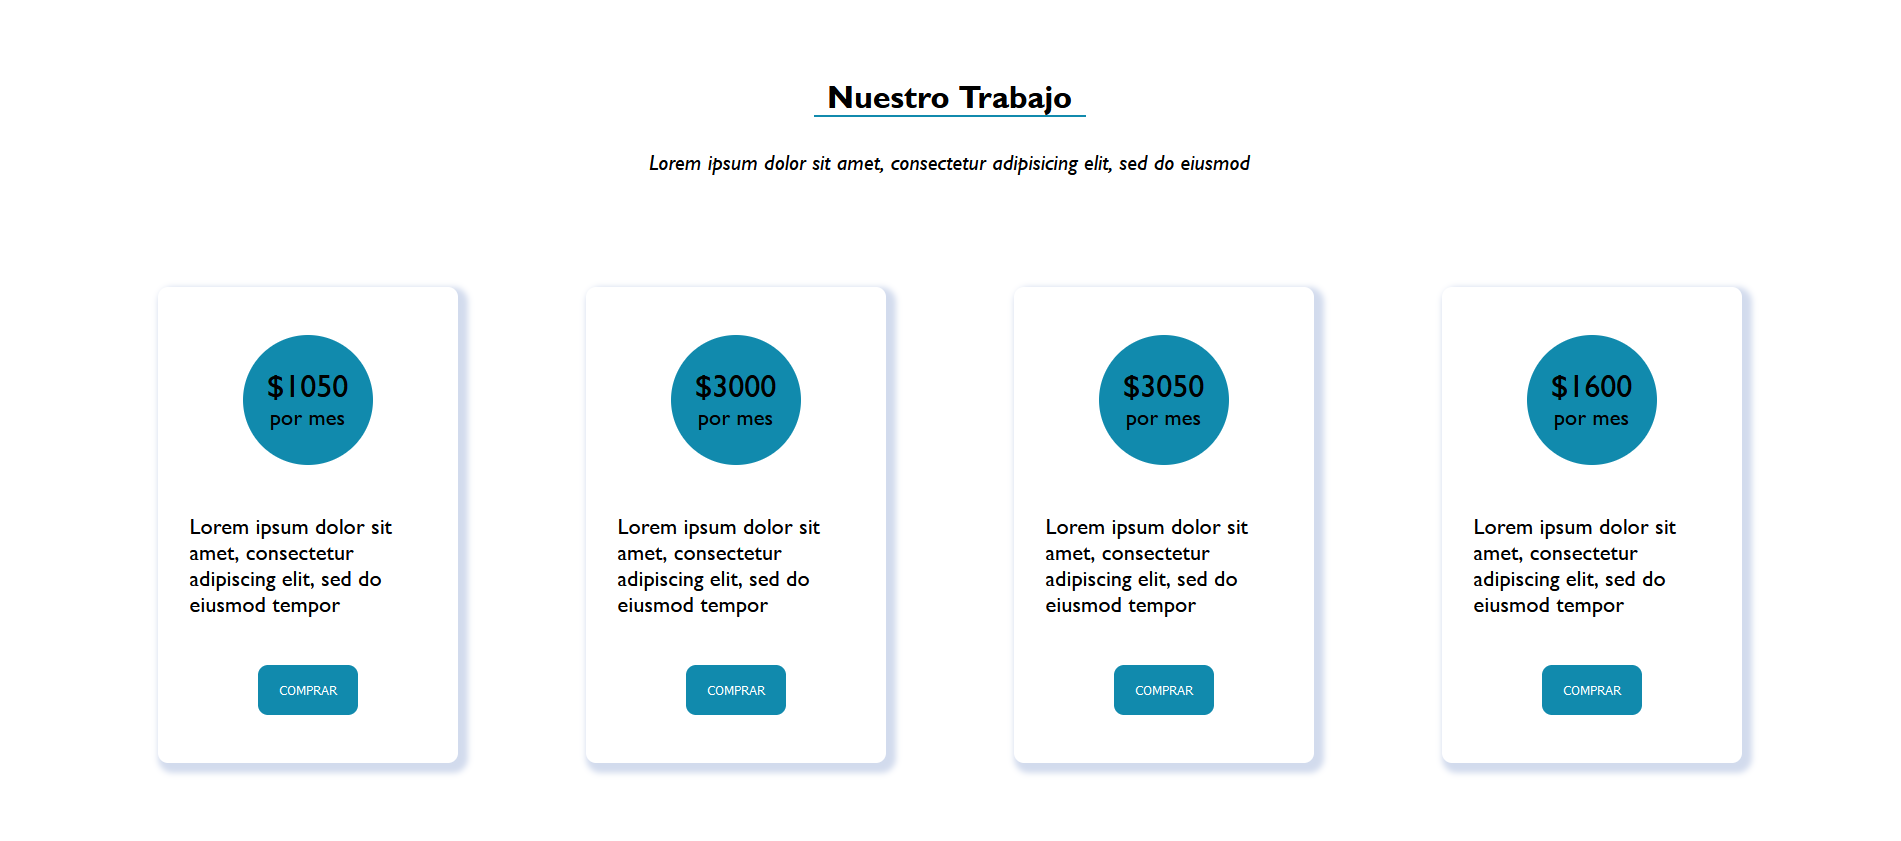
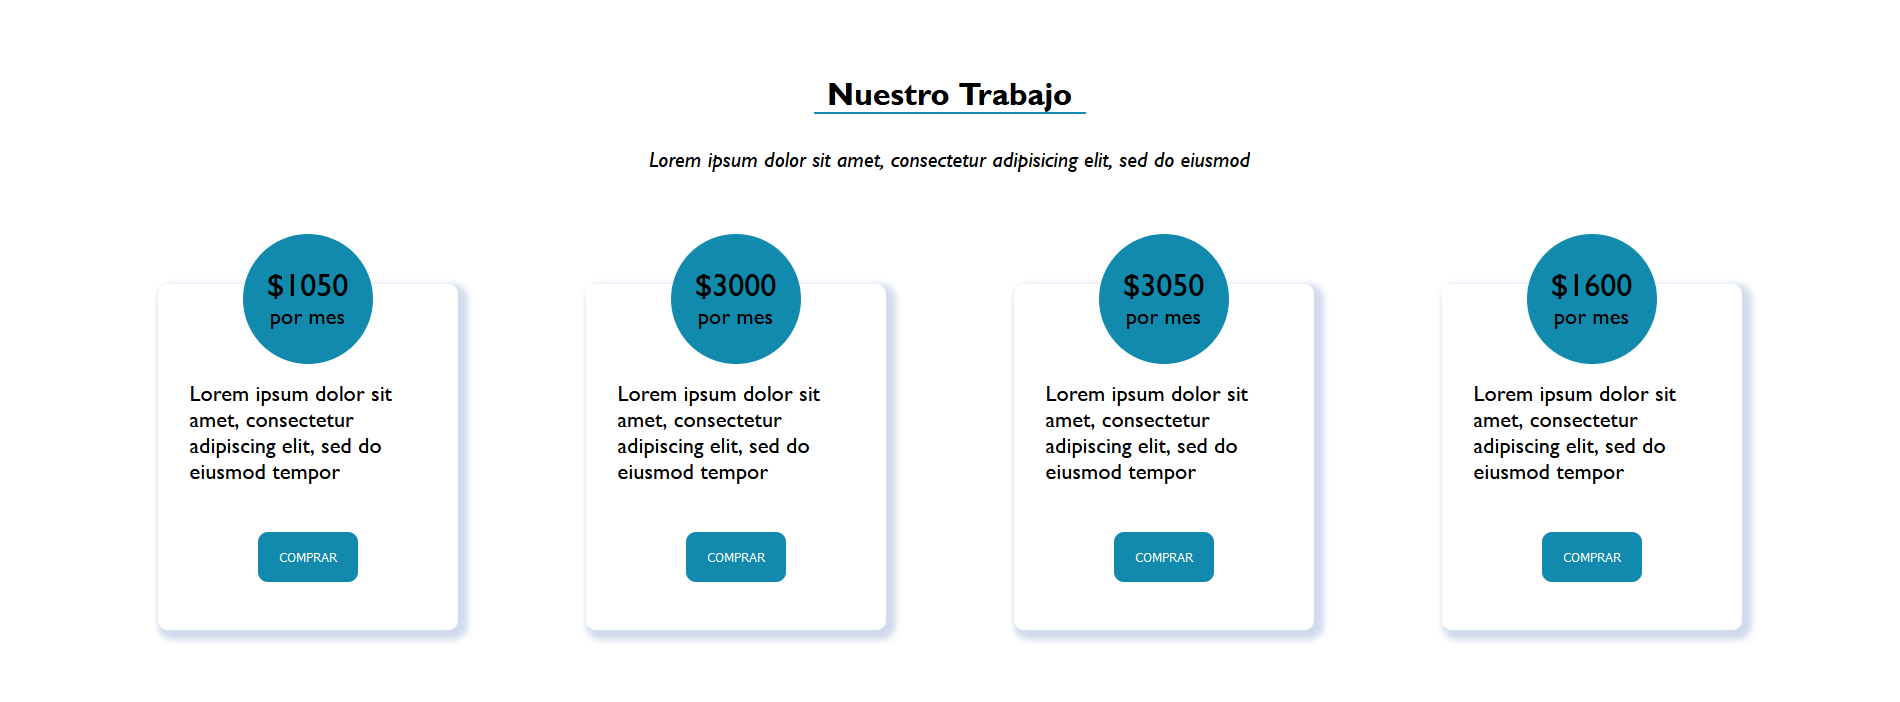
modifico los precios

diff --git a/style.css b/style.css
@@ -348,12 +348,26 @@ p {
 	align-items: center;
   }
 
+.card2 {
+	width: 300px;
+	box-shadow: 5px 5px 5px 5px var(--color-cuarto);
+	display: flex;
+	flex-direction: column;
+	align-items: center;
+	padding: 3rem 1rem;
+	border-radius: 10px;
+	position: relative;
+}
+
 .card2__precios {
 	background-color: var(--color-primario);
 	width: 130px;
 	height: 130px;
 	border-radius: 100%;
 	padding: 2rem 1rem 1rem 1rem;
+	position: absolute;
+	z-index: 3;
+	top: -50px;
 }
 
 .card2__precios p {
@@ -363,16 +377,6 @@ p {
 .card2__precio {
 	font-size: 2rem;
 	font-weight: 300;
-}
-
-.card2 {
-	width: 300px;
-	box-shadow: 5px 5px 5px 5px var(--color-cuarto);
-	display: flex;
-	flex-direction: column;
-	align-items: center;
-	padding: 3rem 1rem;
-	border-radius: 10px;
 }
 
 .card2:hover {
